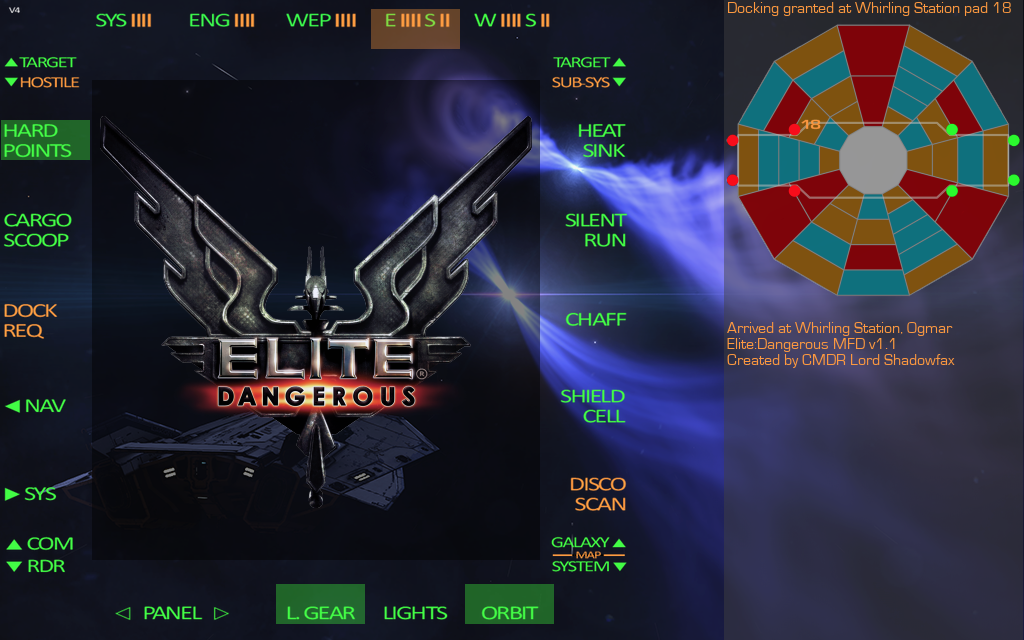
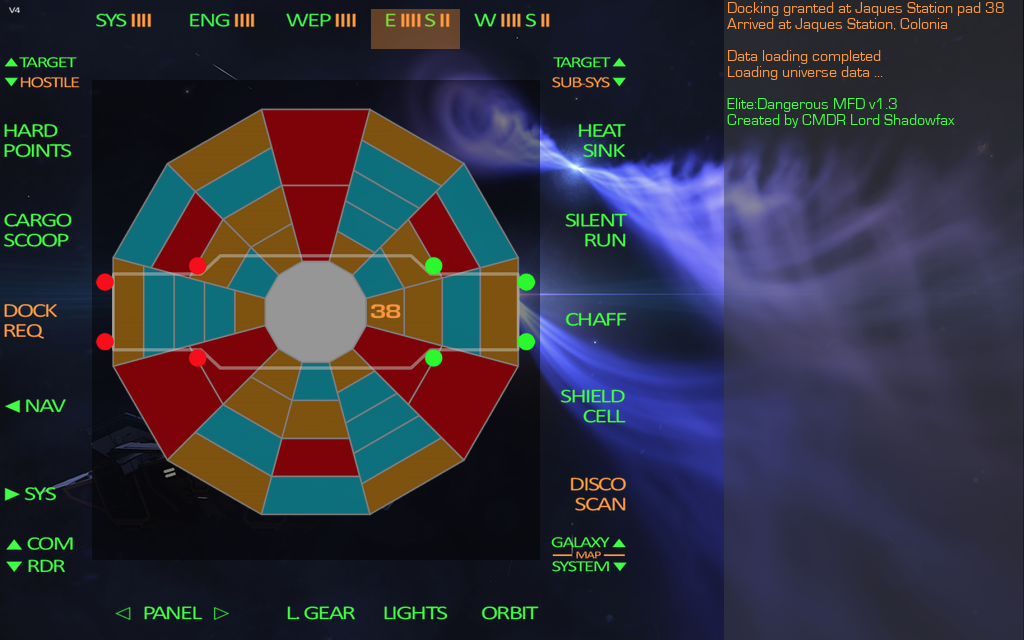
add monitoring DockingCancelled event

diff --git a/ed_journal.py b/ed_journal.py
@@ -6,6 +6,7 @@ import glob, io
 from config import *
 from ed_object import *
 from ed_status import *
+from mfd_interface import *
 from watchdog.observers import Observer
 from watchdog.events import PatternMatchingEventHandler
 
@@ -17,7 +18,7 @@ J_LOG  = os.path.join(J_PATH, "Journal.*.log")
 J_STAT = os.path.join(J_PATH, "Status.json")
 
 class Journal:
-    events_monitor = [ "SupercruiseExit", "Location", "DockingGranted", "Docked", "Status" ]
+    events_monitor = [ "SupercruiseExit", "Location", "DockingGranted", "Docked", "DockingCancelled", "Status" ]
     show_coriolis_types = [ "Coriolis", "Orbis" ]
     path = J_PATH
     patterns = [ J_LOG, J_STAT ]
@@ -74,11 +75,13 @@ class Journal:
                 # Docked
                 if em == "Docked":
                     rpanel.add_text([ "Docked at %s, %s" % (emj["StationName"], emj["StarSystem"]) ])
-                    mpanel.clear_all()
-                    mpanel.add_image(IMAGE_ED_LOGO)
-                    mpanel.add_text(["",""])
+                    draw_logo(mpanel)
                     ship.set_at_system(emj["StarSystem"])
                     ship.set_at_station(emj["StationName"])
+                    ship.mark_event_processed(em)
+                # DockingCancelled
+                if em == "DockingCancelled":
+                    draw_logo(mpanel)
                     ship.mark_event_processed(em)
                 # Status
                 if em == "Status":

diff --git a/mfd.py b/mfd.py
@@ -83,8 +83,7 @@ MFD_MP_XY = MFD.sd(MFD_MP_X), MFD.sd(MFD_MP_Y)
 
 mpanel = pygame.Surface( (MFD.sd(MFD_MP_WIDTH), MFD.sd(MFD_MP_HEIGHT)) )
 mp1_MFD = Panel(MFD.sd(MFD_MP_X), MFD.sd(MFD_MP_Y), MFD.sd(MFD_MP_WIDTH), MFD.sd(MFD_MP_HEIGHT), MFD_MP_ROWS)
-mp1_MFD.add_image(IMAGE_ED_LOGO)
-mp1_MFD.add_text(["",""])
+draw_logo(mp1_MFD)
 
 # misc init
 last_pad = 0

diff --git a/mfd_functions.py b/mfd_functions.py
@@ -17,6 +17,11 @@ def draw_panel(mfd, surface, panel, add_shade=False):
     panel.render_panel(mfd)
     #print("+", end="", flush=True)
 
+def draw_logo(panel):
+    panel.clear_all()
+    panel.add_image(IMAGE_ED_LOGO)
+    panel.add_text(["",""])
+
 # button actions
 
 def show_button_states(buttons):
